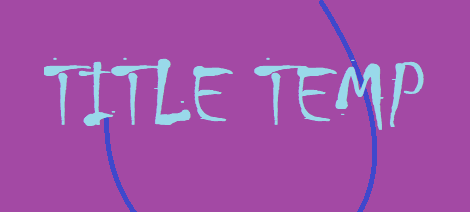
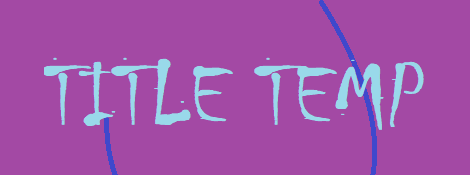
added game over state/adjusted asset size

Changed region(s): [[0.0894, 0.2571, 0.5064, 1.0], [0.5362, 0.0286, 0.9234, 0.7714], [0.7447, 0.8, 0.8043, 1.0]]

diff --git a/src/scenes/Play.js b/src/scenes/Play.js
@@ -32,7 +32,11 @@ class Play extends Phaser.Scene{
 		this.player.body.bounce.y = 0.5;
 
 		// add collisions
-		this.physics.add.collider(this.player, this.platforms);
+        this.physics.add.collider(this.player, this.platforms);
+        
+        this.gameover = false;
+
+        keyRIGHT = this.input.keyboard.addKey(Phaser.Input.Keyboard.KeyCodes.RIGHT);
 		
     }
 
@@ -40,12 +44,25 @@ class Play extends Phaser.Scene{
 		
 		// check if player died
 		if (this.player.y < 0) {
-			console.log("game over, eaten by void");
-			this.scene.restart();
+            console.log("game over, eaten by void"); //prints infinitely, adjust
+            this.gameover=true;
+			//this.scene.restart();
 		} else if (this.player.y > game.config.height) {
-			console.log("game over, fell of screen");
-			this.scene.restart();
-		}
+            console.log("game over, fell of screen"); //prints infinitely, adjust
+            this.gameover=true;
+			//this.scene.restart();
+        }
+        
+        if (this.gameover){ //gameover, turns off player movement, allows scene to be reset with right arrow key
+            this.player.body.velocity.x = 0;
+		    this.player.body.velocity.y = 0;
+		    this.player.body.bounce.x = 0;
+            this.player.body.bounce.y = 0;
+            this.player.body.allowGravity = false;
+            if(Phaser.Input.Keyboard.JustDown(keyRIGHT)){
+                this.scene.restart();
+            }
+        }
 
     }
 }

diff --git a/src/scenes/Menu.js b/src/scenes/Menu.js
@@ -46,7 +46,7 @@ class Menu extends Phaser.Scene{
         let textSpacer = 80;
 
         this.titleCard = this.add.tileSprite
-        (game.config.width/2, game.config.height/2-2*textSpacer, 470, 212, "title")
+        (game.config.width/2, game.config.height/2-2*textSpacer, 470, 175, "title")
         .setOrigin(.5,.5);
 
        /* this.add.text(centerX, centerY-2*textSpacer, 
